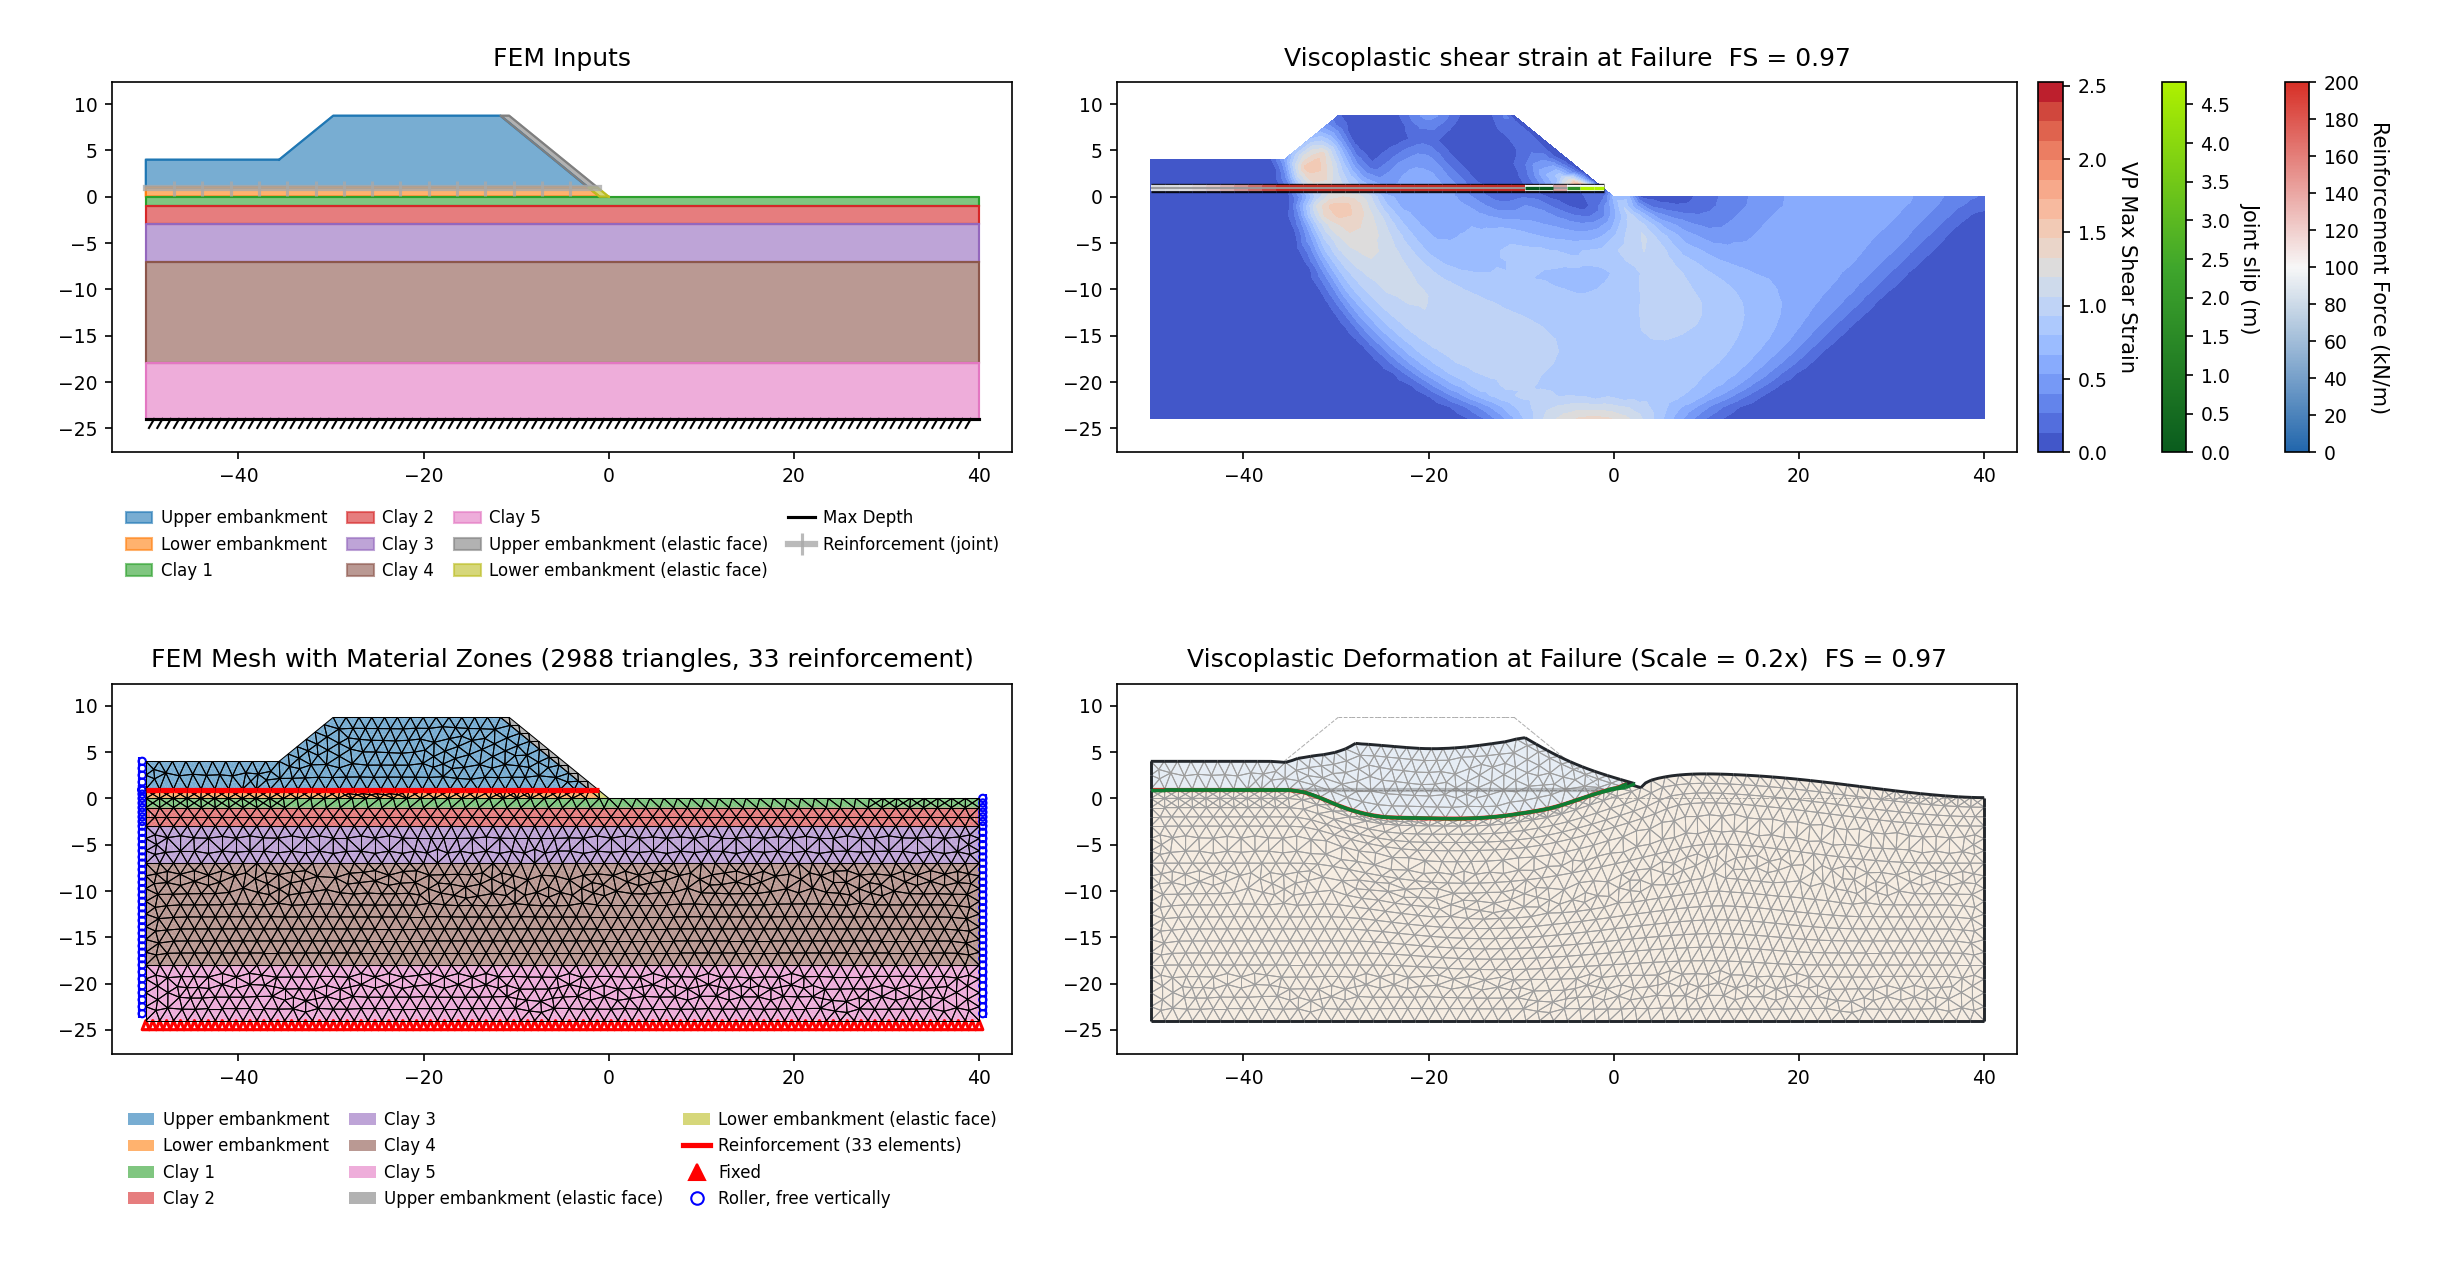
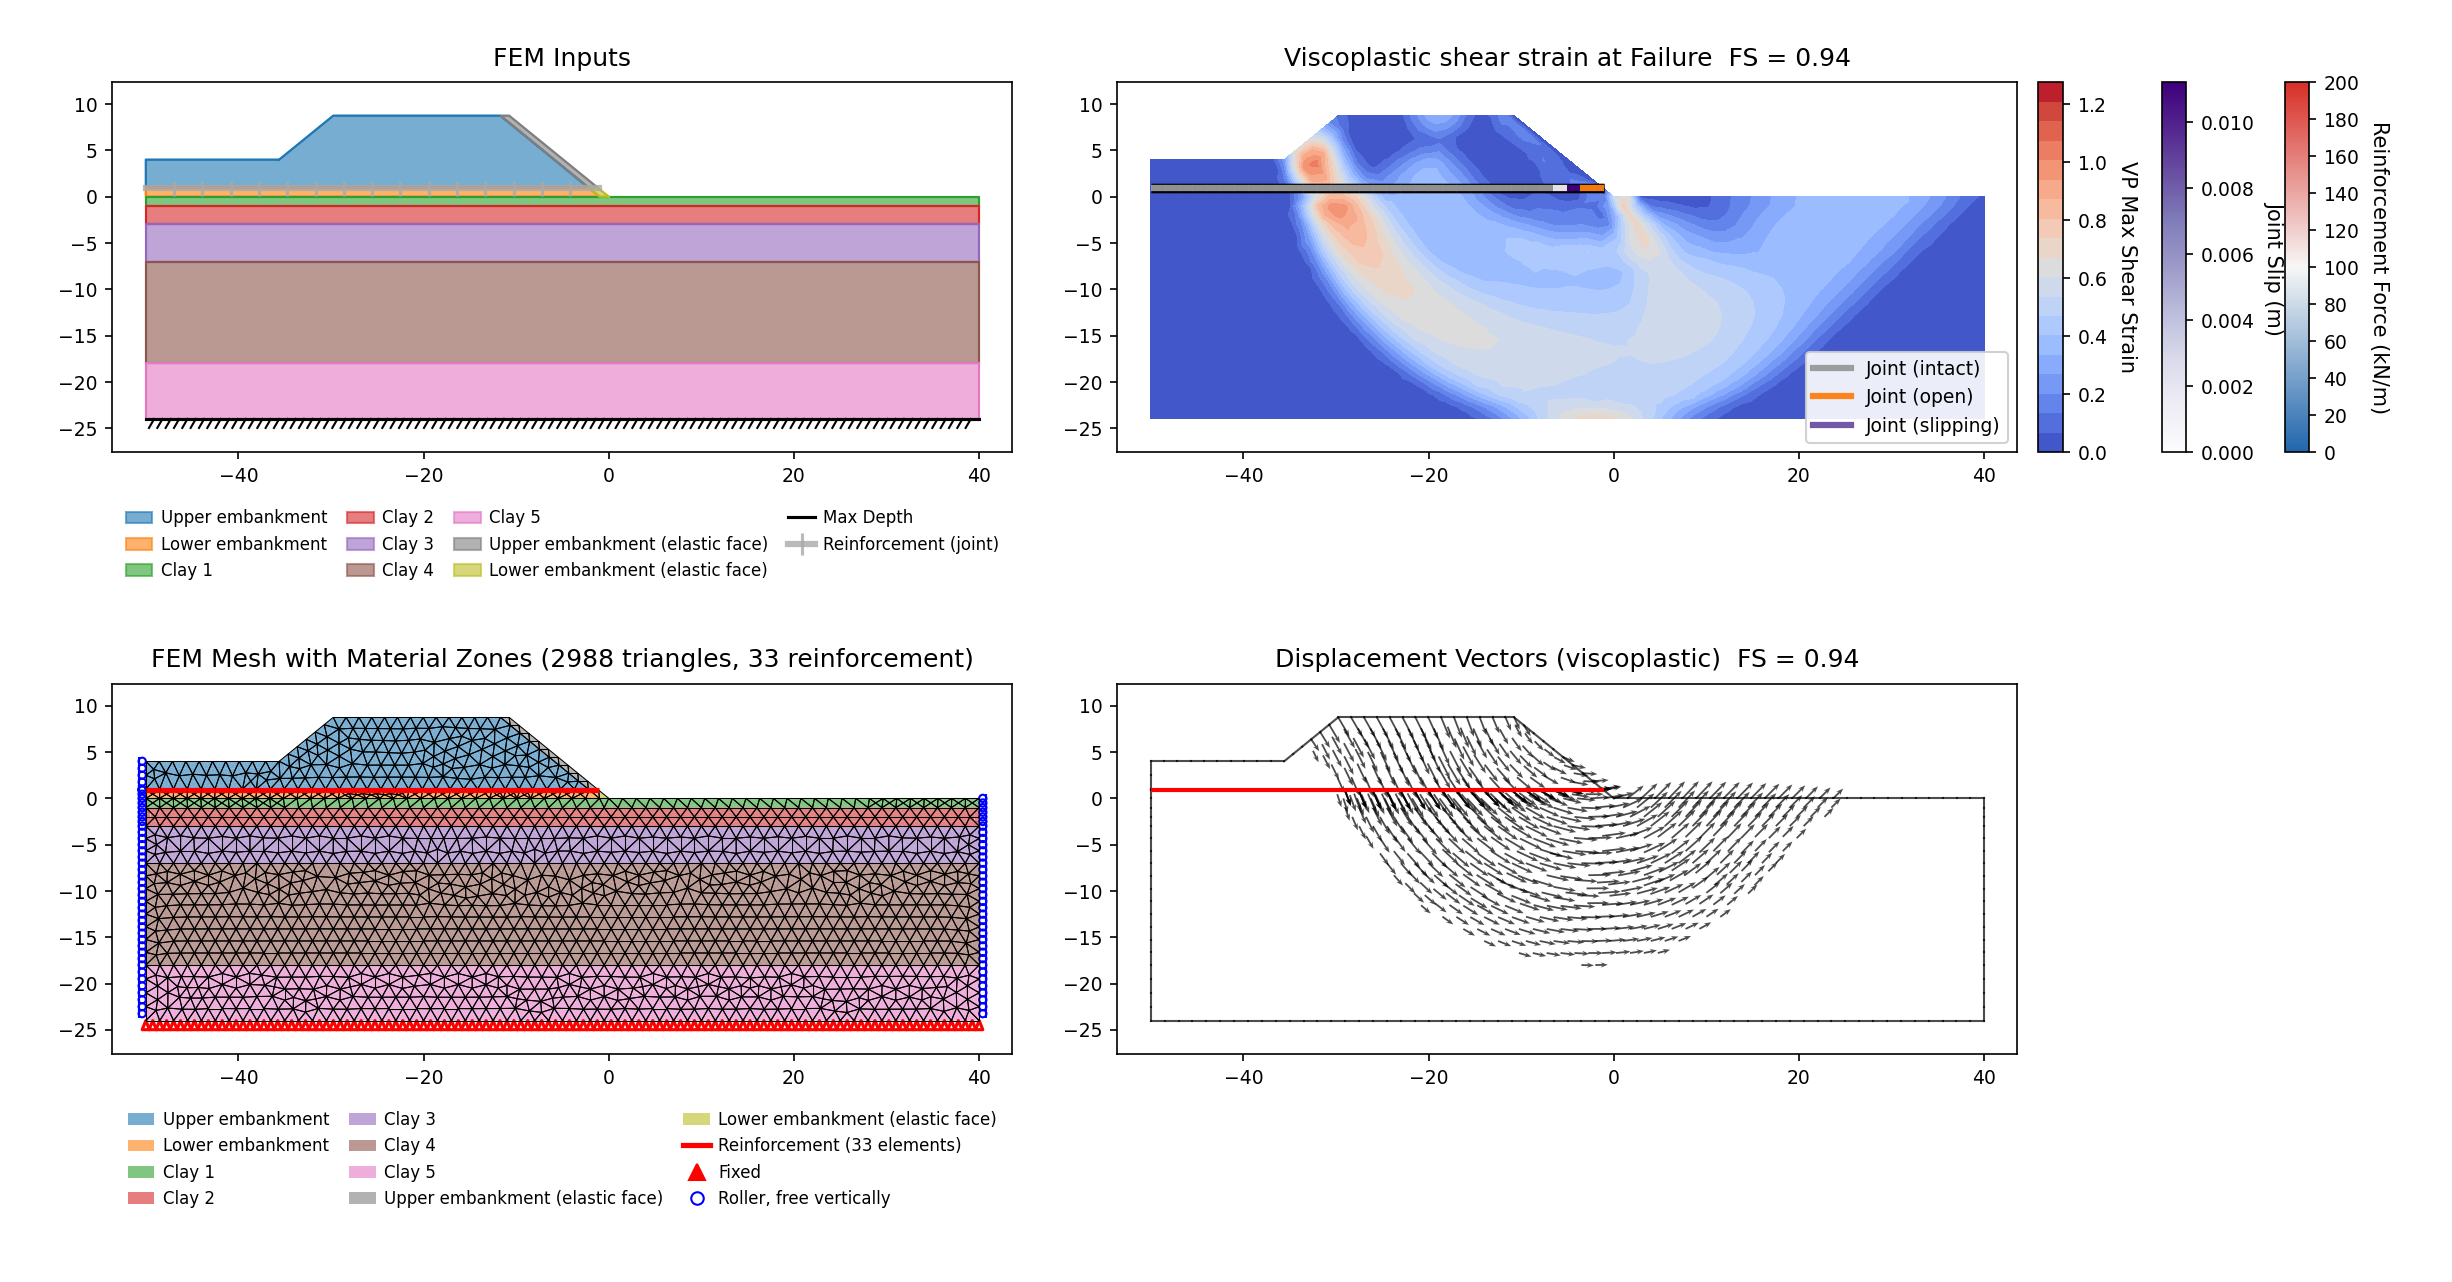
verification: RS2-24b keeps the figure its own lock was drawn with
The row's re-cut returns 0.9746 against a lock of 0.939, outside the tag's 0.02
tolerance, so the lock is left as it stands for the owner to rule on. Its
composite was regenerated with the rest of the jointed family and titled with the
factor that run cut — a figure reading FS = 0.97 under a table reading 0.939 — so
the figure and its caption go back to the ones the page's own number was drawn
with. The re-solved field and its trial record stay beside the model, which is
where the measurement lives; the figure follows the lock once the lock is settled.

Claude-Session: https://claude.ai/code/session_01XjjT2aBxw8gY7EFdpoUcpj

diff --git a/docs/verification/rs2.md b/docs/verification/rs2.md
@@ -833,7 +833,7 @@ and the profile-line section they are locked against.
 
 ![RS2-24a: the 7 m Borges & Cardoso embankment on its basal geotextile, the sheet built as RS2 builds it — the mesh split along it and the two faces sliding on a frictional interface — FEM inputs, mesh, max shear strain and the deformed mesh at the critical SRF, the blocks the joints cut drawn at the scale the panel states](images/RS2-24a.png)
 
-![RS2-24b: the 8.75 m case, same construction — FEM inputs, mesh, max shear strain and the deformed mesh at the critical SRF, the blocks the joints cut drawn at the scale the panel states](images/RS2-24b.png)
+![RS2-24b: the 8.75 m case, same construction — FEM inputs, mesh, max shear strain and displacement vectors at the critical SRF](images/RS2-24b.png)
 
 ### 🔴 RS2-25: Syncrude tailings dyke (El-Ramly et al. 2003) {#rs2-25}
 
